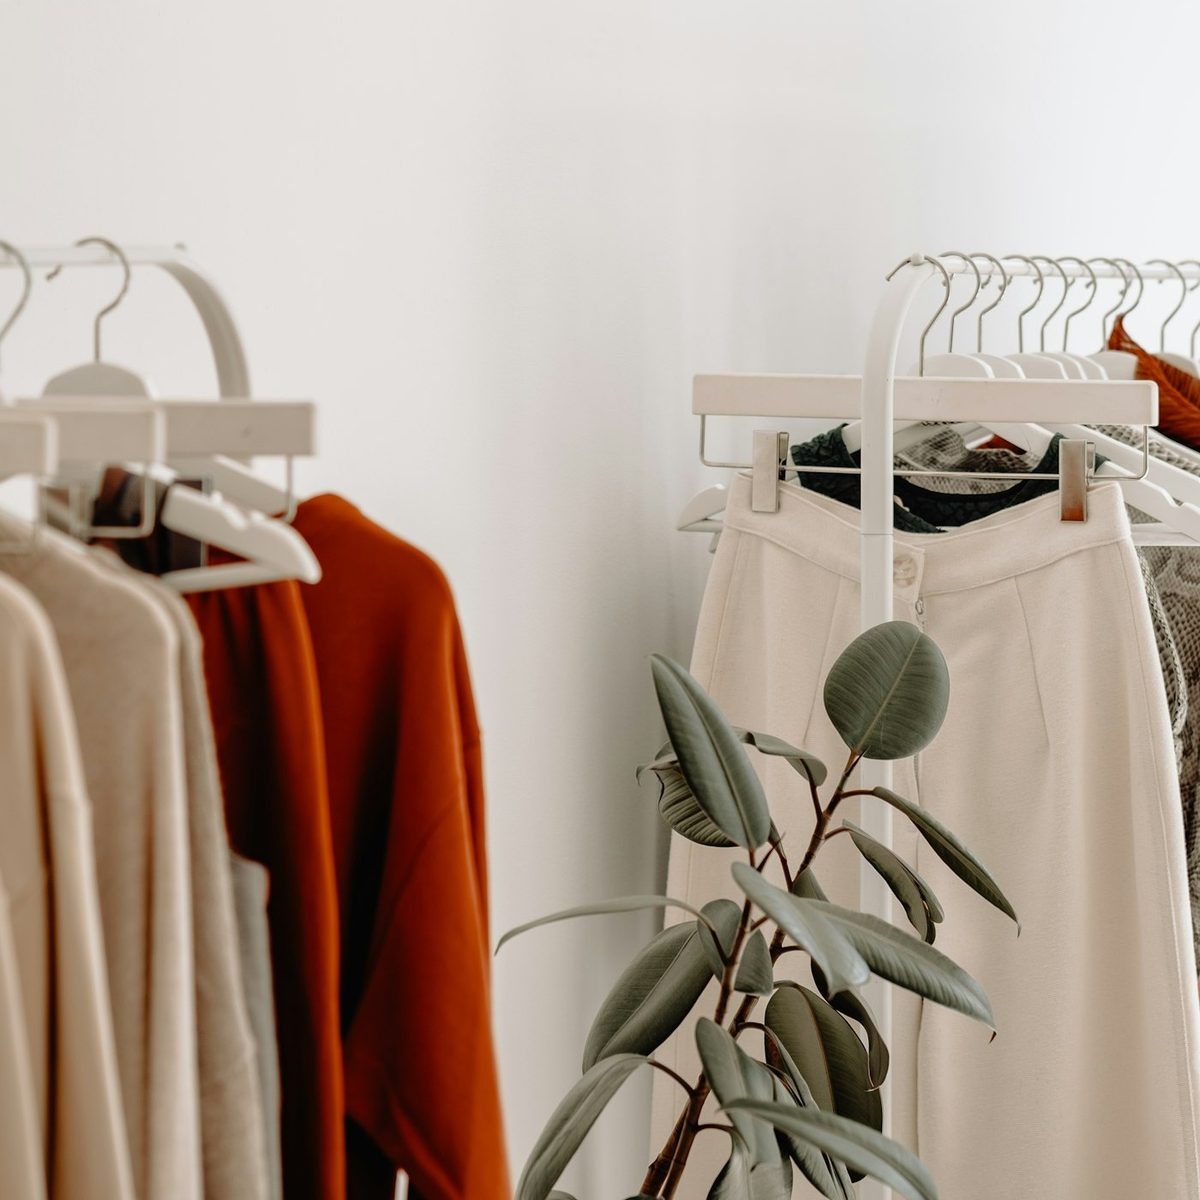
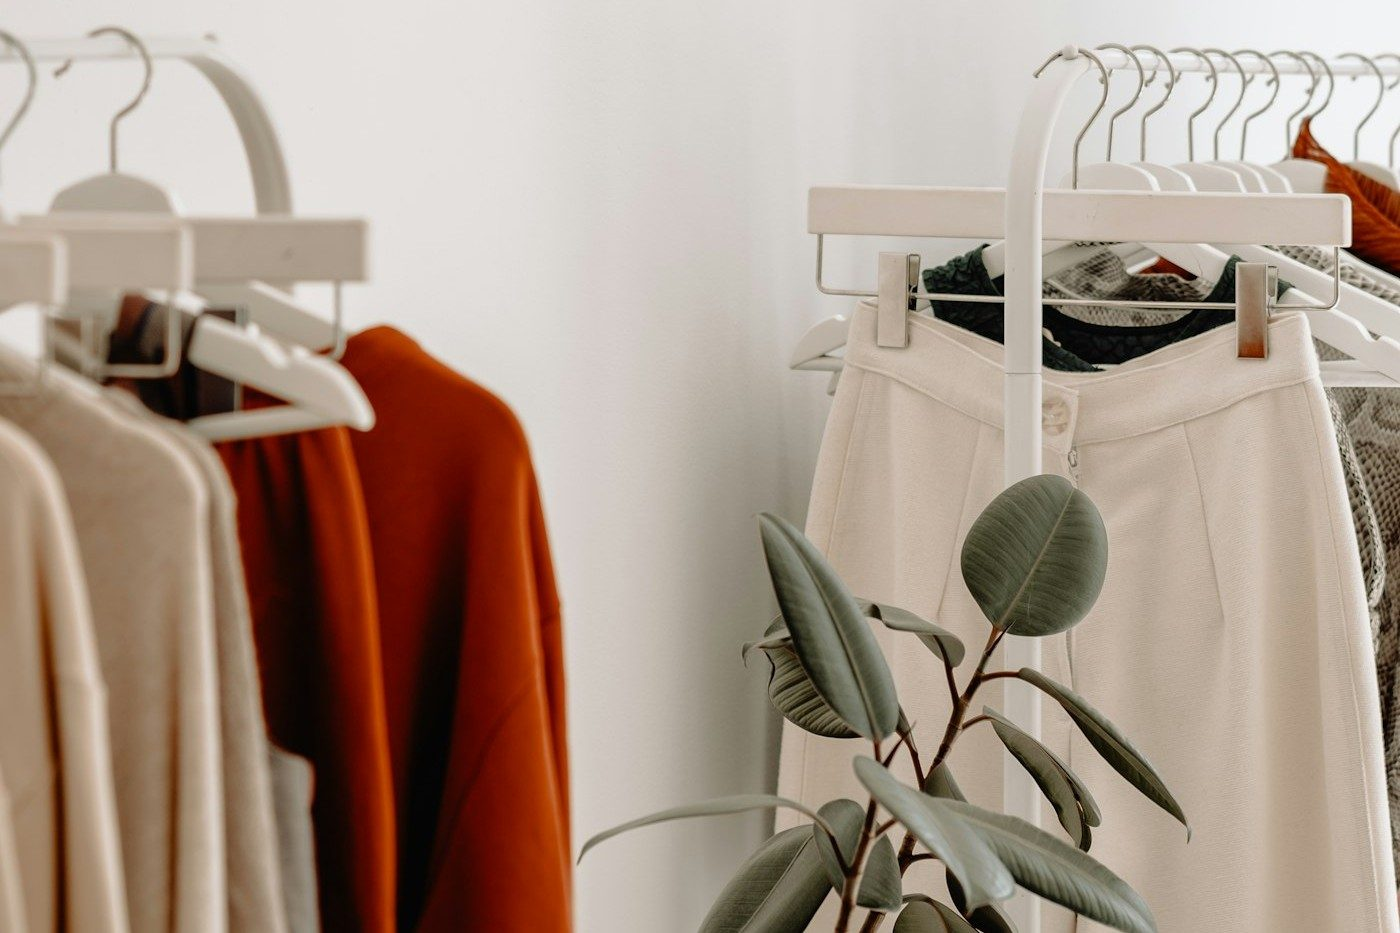
Home hero: wider landscape (3:2) photo, text pushed right

diff --git a/components/home/Hero.tsx b/components/home/Hero.tsx
@@ -10,13 +10,13 @@ export function Hero() {
       <Container className="grid grid-cols-1 items-center gap-10 py-14 md:gap-12 lg:min-h-[86vh] lg:grid-cols-2 lg:gap-16 lg:py-20">
         {/* Photo — left on desktop, below text on mobile */}
         <div className="order-2 lg:order-1">
-          <div className="relative aspect-square w-full overflow-hidden rounded-xl border border-nordic-linen shadow-[0_20px_50px_rgba(58,63,59,0.12)]">
+          <div className="relative mx-auto aspect-[3/2] w-full max-w-lg overflow-hidden rounded-xl border border-nordic-linen shadow-[0_20px_50px_rgba(58,63,59,0.12)] lg:max-w-none">
             <Image
               src="/images/home/hero.jpg"
               alt="A rack of neutral-toned secondhand clothing beside a leafy rubber plant"
               fill
               priority
-              sizes="(min-width: 1024px) 45vw, 100vw"
+              sizes="(min-width: 1024px) 48vw, 100vw"
               className="object-cover"
             />
           </div>